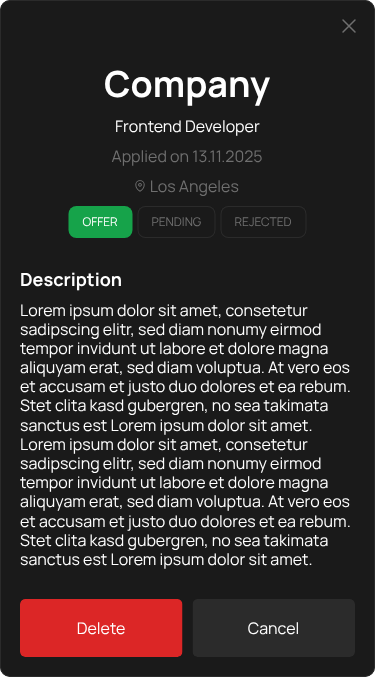
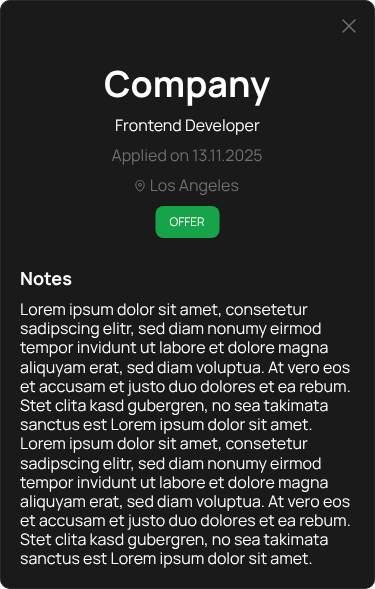
add info section

diff --git a/frontend/src/landing/components/layout/Section.jsx b/frontend/src/landing/components/layout/Section.jsx
@@ -1,3 +1,4 @@
+import detailsScreenshot from "../../assets/img/details-screenshot.webp";
 import formScreenshot from "../../assets/img/form-screenshot.webp";
 
 export default function Section() {
@@ -35,7 +36,7 @@ export default function Section() {
             />
           </div>
         </div>
-        {/* <div className="w-full grid grid-cols-1 md:grid-cols-2">
+        <div className="w-full grid grid-cols-1 md:grid-cols-2">
           <div className="flex justify-center items-center px-5 md:py-8 md:px-28">
             <div className="flex flex-col gap-y-4">
               <h3 className="text-2xl md:text-4xl text-center md:text-left">
@@ -44,9 +45,7 @@ export default function Section() {
               <p className="w-full">
                 This detail modal provides a comprehensive overview of a saved
                 job application within your tracking system. Instantly review
-                the company, position, application date, and location, and use
-                the quick status buttons ('Offer', 'Pending', 'Rejected') to
-                easily update the application's progress.
+                the company, position, application date, location and your notes
               </p>
             </div>
           </div>
@@ -57,7 +56,7 @@ export default function Section() {
               className="w-auto h-4/5 shadow-2xl shadow-black/30"
             />
           </div>
-        </div>*/}
+        </div>
       </section>
     </>
   );
